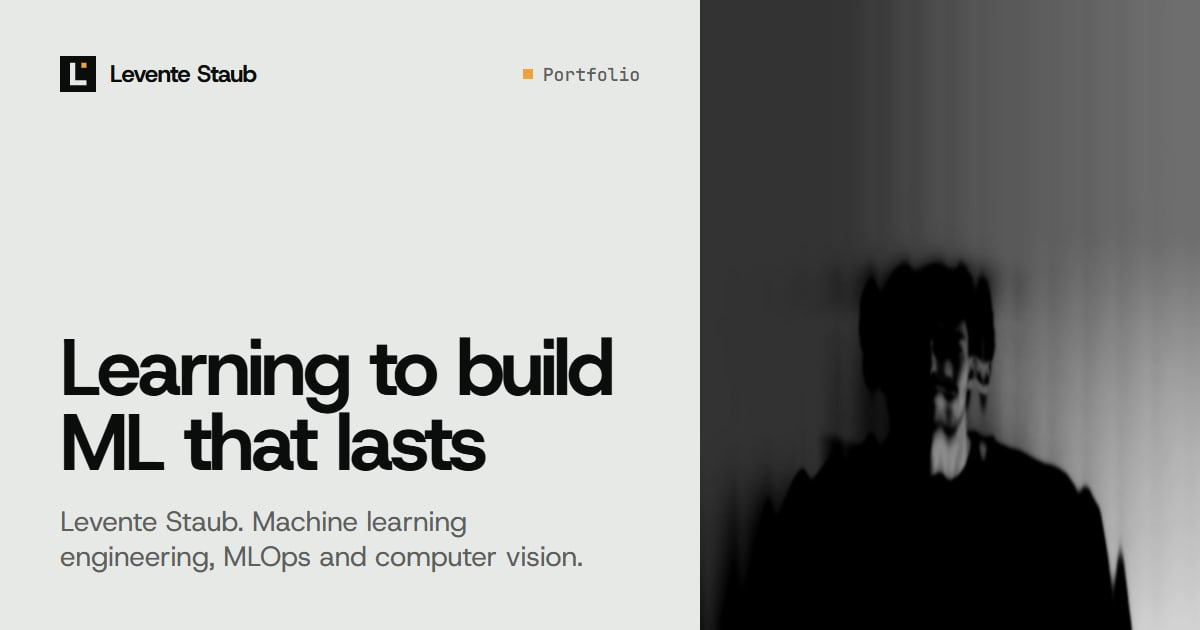
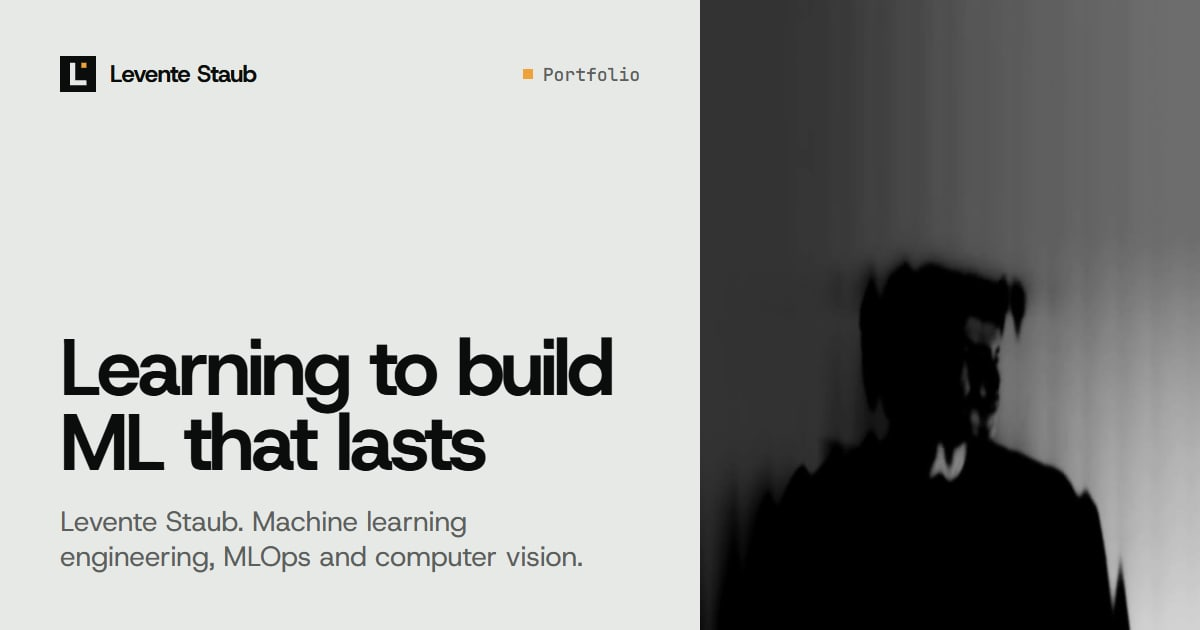
Profile share card; inline CSS, WebP posters, sized covers and figures, lazy Flip

Changed region(s): [[0.7708, 0.4222, 0.8633, 0.754], [0.8942, 0.754, 0.9558, 1.0], [0.8633, 0.7238, 0.8942, 0.754]]

diff --git a/src/scripts/motion.js b/src/scripts/motion.js
@@ -3,10 +3,9 @@ import gsap from 'gsap';
 import { ScrollTrigger } from 'gsap/ScrollTrigger';
 import { SplitText } from 'gsap/SplitText';
 import { CustomEase } from 'gsap/CustomEase';
-import { Flip } from 'gsap/Flip';
 import Lenis from 'lenis';
 
-gsap.registerPlugin(ScrollTrigger, SplitText, CustomEase, Flip);
+gsap.registerPlugin(ScrollTrigger, SplitText, CustomEase);
 CustomEase.create('out', '.16,1,.3,1');
 CustomEase.create('inout', '.65,0,.35,1');
 CustomEase.create('snap', '.3,0,0,1');
@@ -237,13 +236,16 @@ function expandingStrip() {
 function workIndex() {
   const list = document.querySelector('[data-index]');
   if (!list) return;
+  // Flip only lives on /work, so it loads here, not in the shared bundle; until it arrives a filter just snaps
+  let Flip = null;
+  import('gsap/Flip').then((m) => { gsap.registerPlugin(m.Flip); Flip = m.Flip; });
   const items = [...list.querySelectorAll('[data-item]')];
   const chips = [...document.querySelectorAll('[data-filter]')];
   const views = [...document.querySelectorAll('[data-view-btn]')];
   const empty = document.querySelector('[data-empty]');
   const press = (btns, on) => btns.forEach((b) => b.setAttribute('aria-pressed', String(b === on)));
   const apply = (change) => {
-    if (reduce.matches) { change(); ScrollTrigger.refresh(); return; }
+    if (reduce.matches || !Flip) { change(); ScrollTrigger.refresh(); return; }
     const state = Flip.getState(items, { props: 'opacity' });
     change();
     Flip.from(state, { targets: items, duration: .6, ease: 'inout', absolute: true, stagger: .025, nested: true, scale: false,

diff --git a/src/data/work.ts b/src/data/work.ts
@@ -13,6 +13,8 @@ export interface Chapter { id: string; title: string; body: string[]; figures?: 
 export interface Metric { value: number; decimals: number; prefix?: string; suffix?: string; label: string }
 export type Focus = 'Computer vision' | 'ML engineering' | 'MLOps' | 'LLM';
 export const focusAreas: Focus[] = ['Computer vision', 'ML engineering', 'MLOps', 'LLM'];
+// srcset for a cover: the sized copies from tools/cover_sizes.mjs plus the 2560 original
+export const coverSet = (src: string) => [640, 1280, 1920].map((w) => src.replace(/\.webp$/, '-' + w + '.webp') + ' ' + w + 'w').concat(src + ' 2560w').join(', ');
 export interface Project {
   slug: string; title: string; line: string; year: string;
   rows: [string, string][];          // model-card spec (home cards)

diff --git a/tools/bake_reeds.py b/tools/bake_reeds.py
@@ -39,4 +39,4 @@ wr = iio.get_writer(f"public/hero/{P['out']}.mp4", fps=meta['fps'], codec='libx2
 first = None
 for f in rd:
     g = glass(f); first = g if first is None else first; wr.append_data(g)
-wr.close(); iio.imwrite(f"public/hero/{P['out']}-poster.jpg", first, quality=85); print(P)
+wr.close(); iio.imwrite(f"public/hero/{P['out']}-poster.webp", first, quality=94); print(P)
